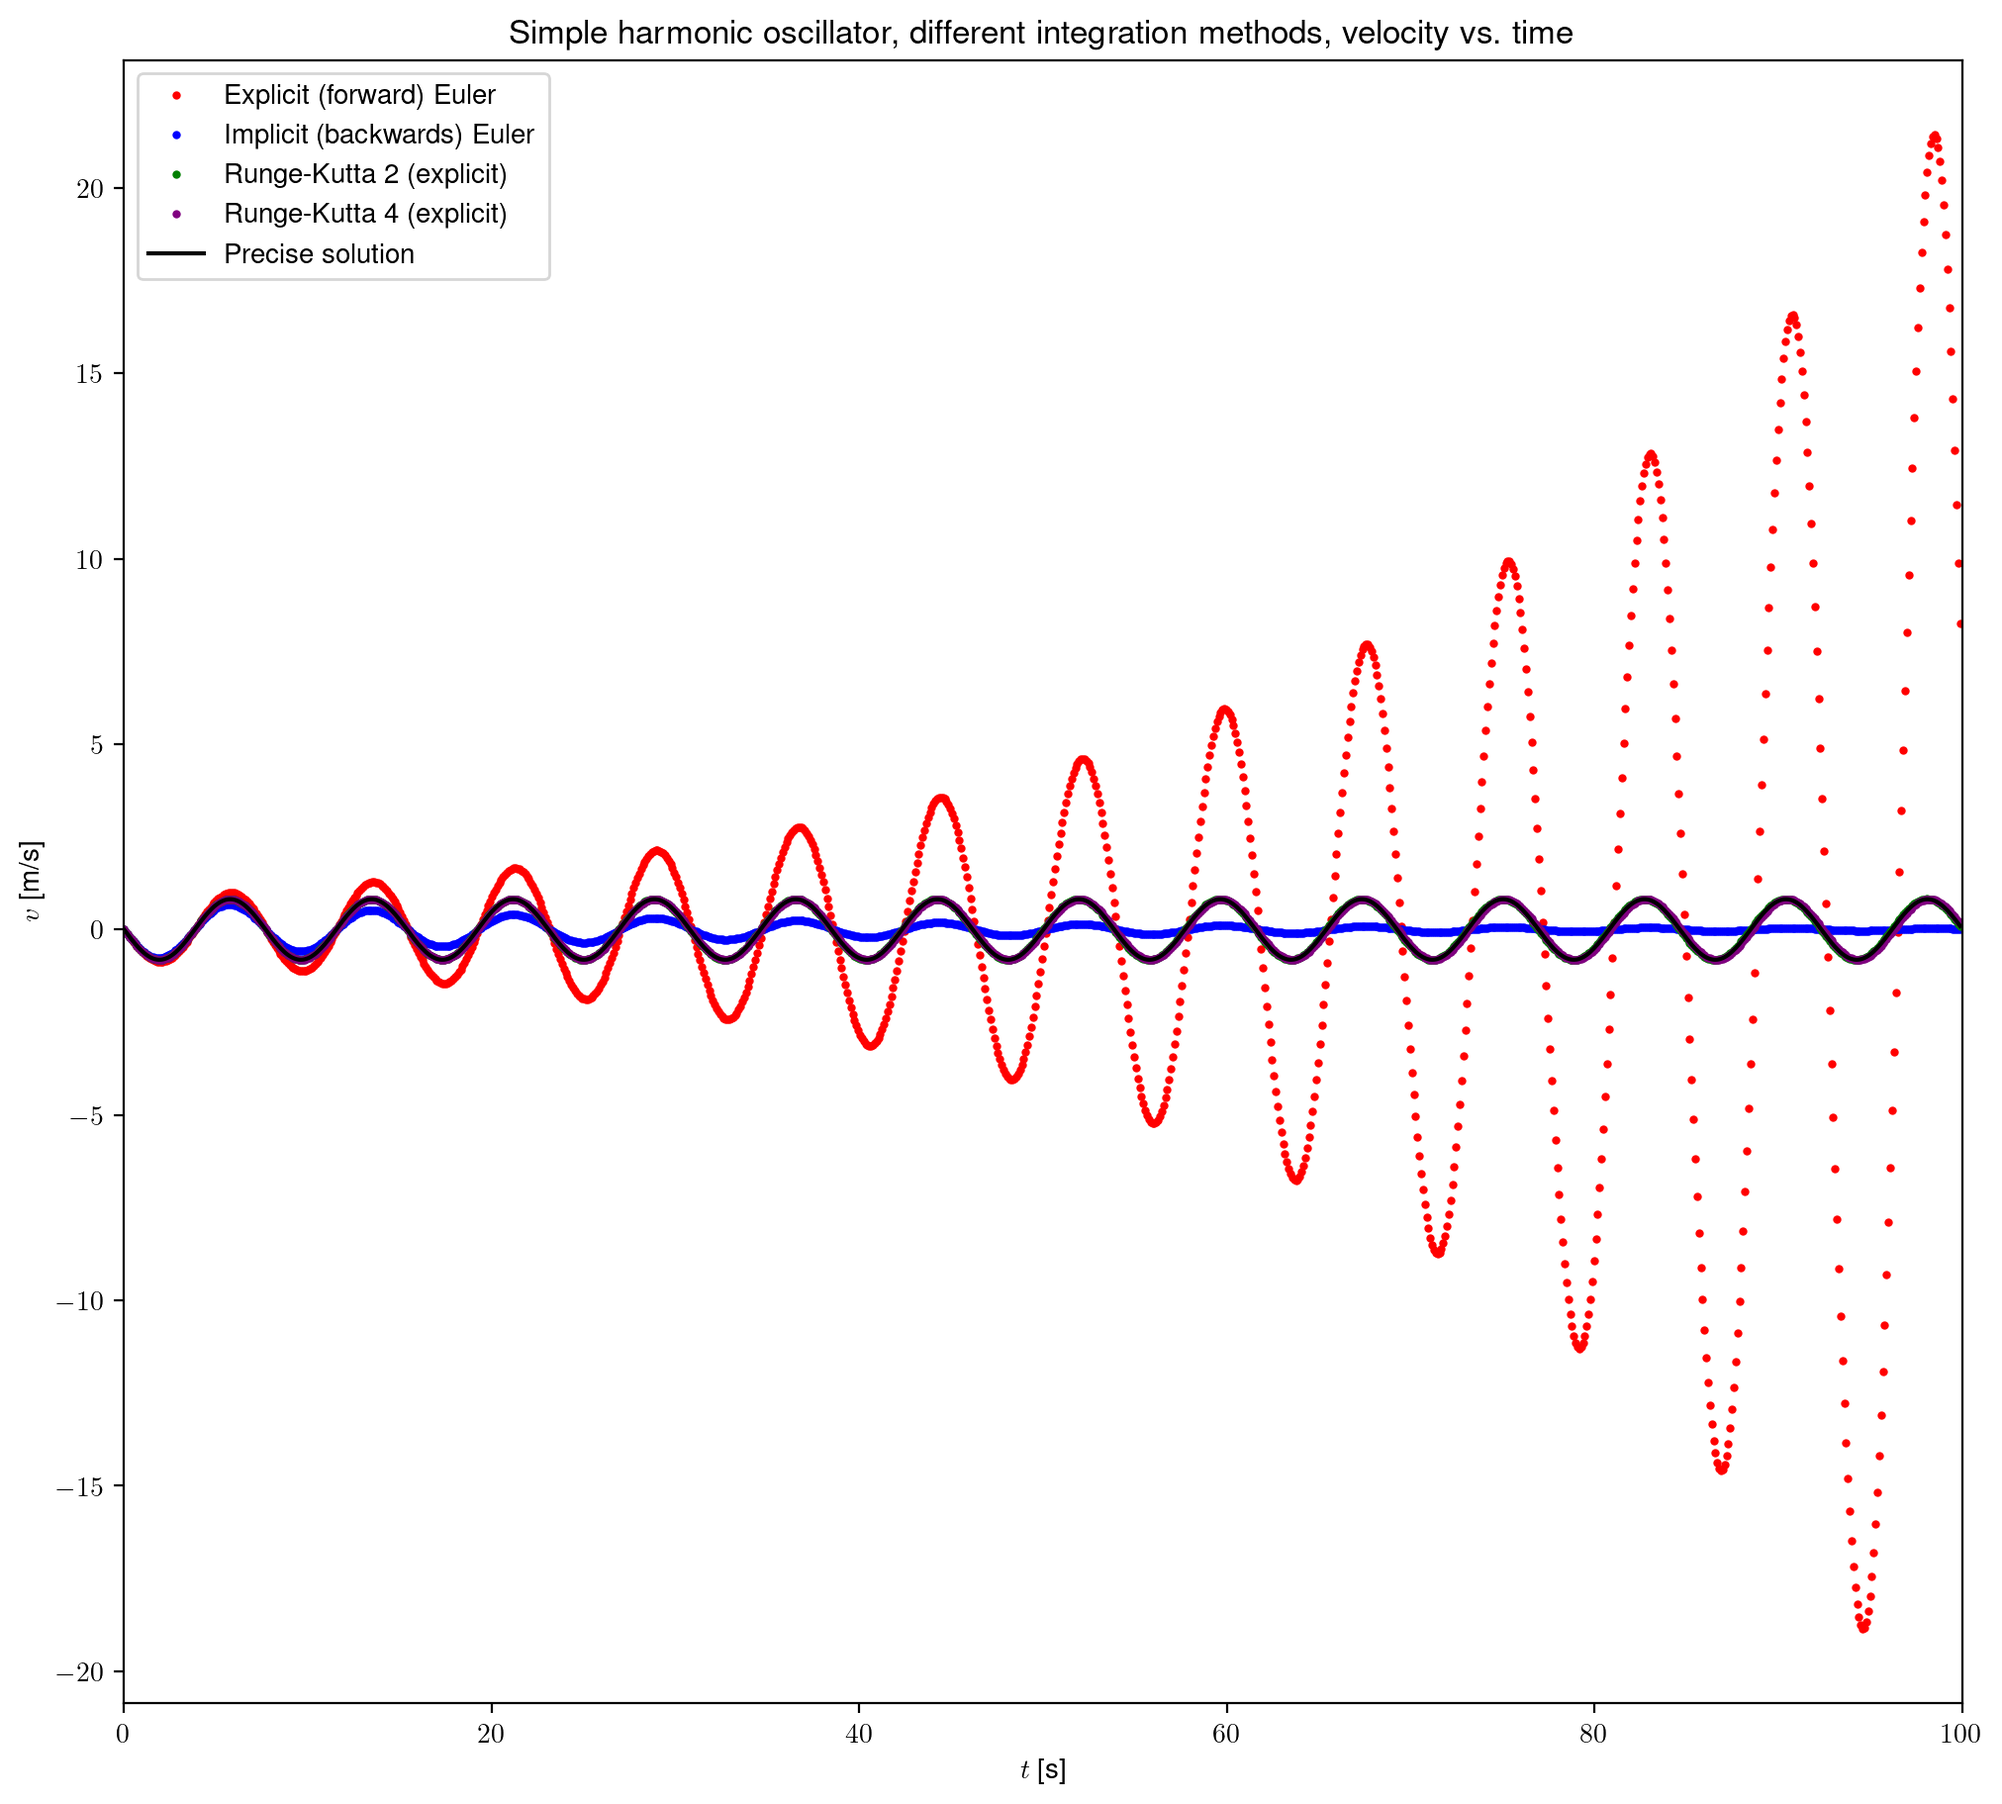
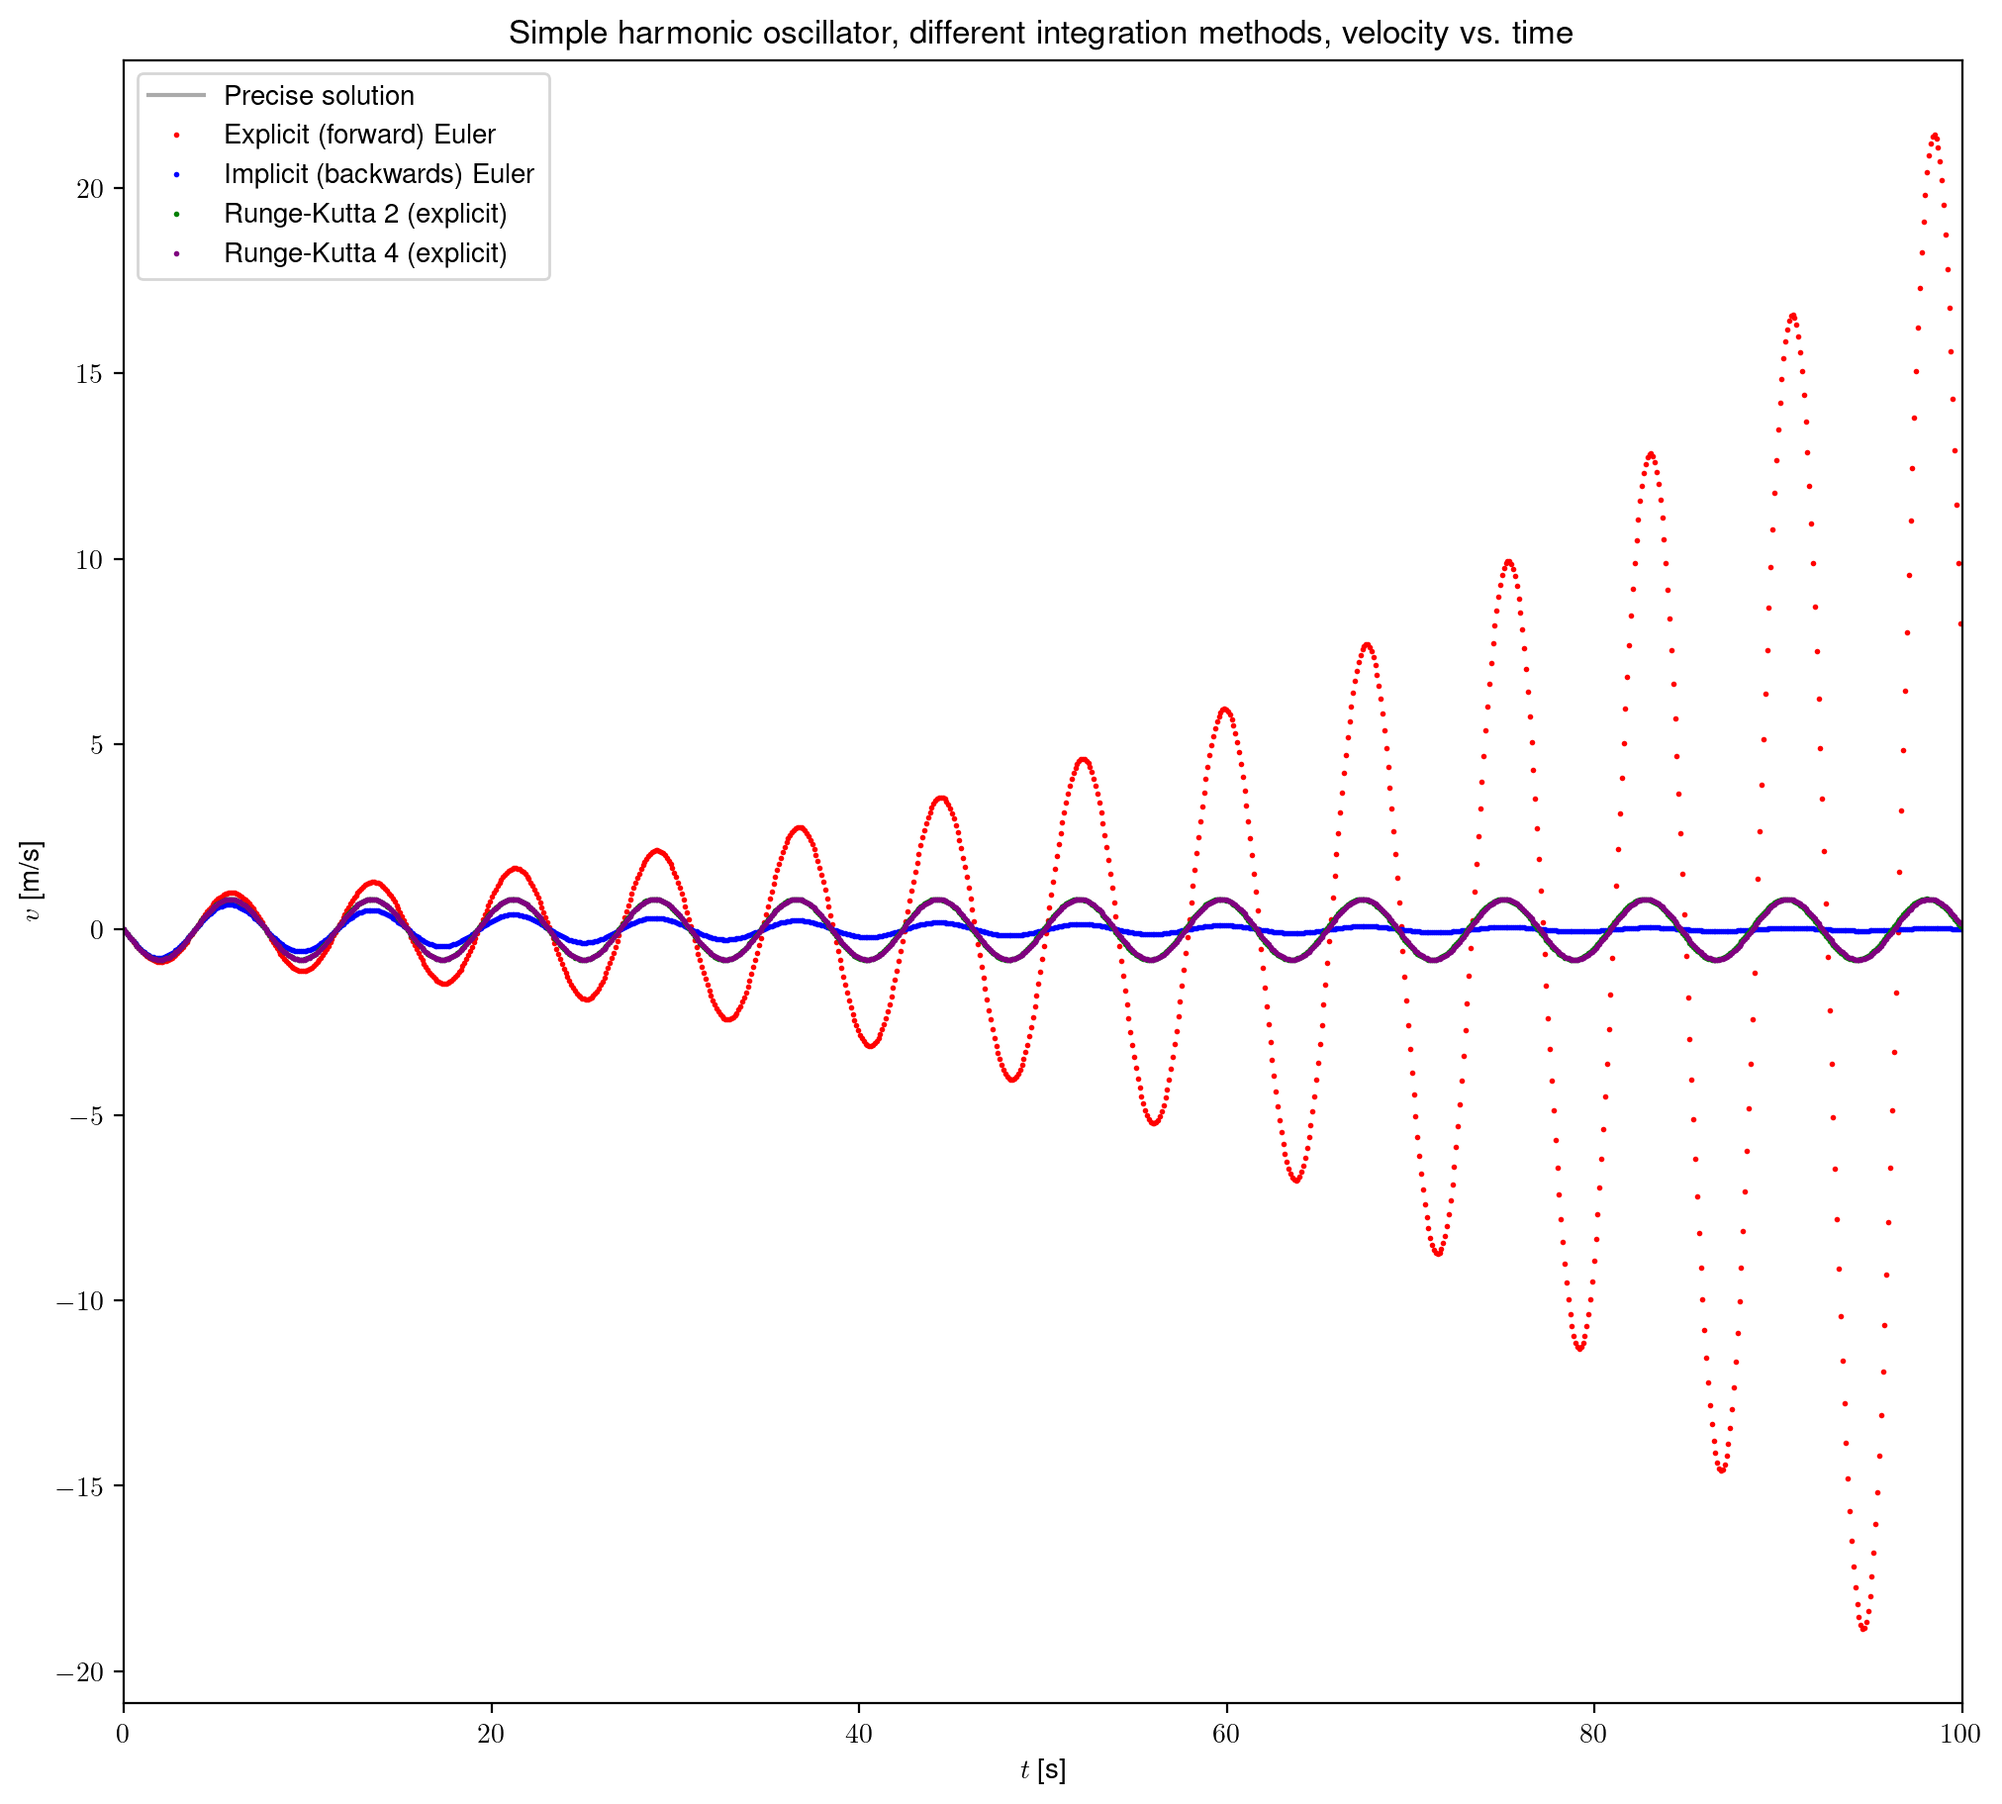
Improved integration figures

diff --git a/code/mechanics/integrators/integrators.py b/code/mechanics/integrators/integrators.py
@@ -124,6 +124,23 @@ data_euler_implicit = euler_implicit()
 data_RK2 = RK2()
 data_RK4 = RK4()
 
+########################
+#        Errors        #
+########################
+
+
+def error(method, exact):
+    diff = np.abs(method - exact)
+    global_error = np.sum(diff, axis=1)
+    local_error = np.mean(diff, axis=1)
+    return global_error, local_error
+
+
+global_error_euler_explicit, local_error_euler_explicit = error(
+    data_euler_explicit, data_exact
+)
+
+
 ##########################
 #        Graphics        #
 ##########################
@@ -158,9 +175,15 @@ def generate_figure(var, last_step=-1):
     ax.set_xlim(0, times_series[last_step])
     ax.plot(
         times_series[:last_step],
+        data_exact[var, :last_step],
+        "#AAAAAA",
+        label="Precise solution",
+    )
+    ax.plot(
+        times_series[:last_step],
         data_euler_explicit[var, :last_step],
         "o",
-        markersize=2,
+        markersize=1,
         color="red",
         label="Explicit (forward) Euler",
     )
@@ -168,7 +191,7 @@ def generate_figure(var, last_step=-1):
         times_series[:last_step],
         data_euler_implicit[var, :last_step],
         "o",
-        markersize=2,
+        markersize=1,
         color="blue",
         label="Implicit (backwards) Euler",
     )
@@ -176,7 +199,7 @@ def generate_figure(var, last_step=-1):
         times_series[:last_step],
         data_RK2[var, :last_step],
         "o",
-        markersize=2,
+        markersize=1,
         color="green",
         label="Runge-Kutta 2 (explicit)",
     )
@@ -184,15 +207,9 @@ def generate_figure(var, last_step=-1):
         times_series[:last_step],
         data_RK4[var, :last_step],
         "o",
-        markersize=2,
+        markersize=1,
         color="purple",
         label="Runge-Kutta 4 (explicit)",
-    )
-    ax.plot(
-        times_series[:last_step],
-        data_exact[var, :last_step],
-        "black",
-        label="Precise solution",
     )
     plt.legend()
     plt.savefig(
